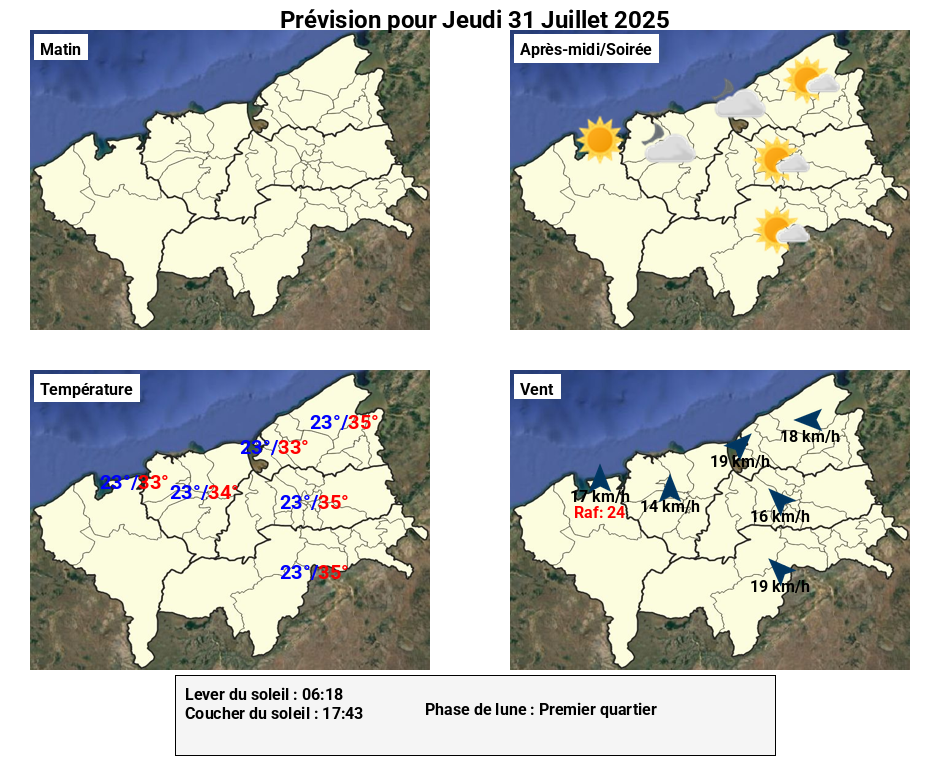
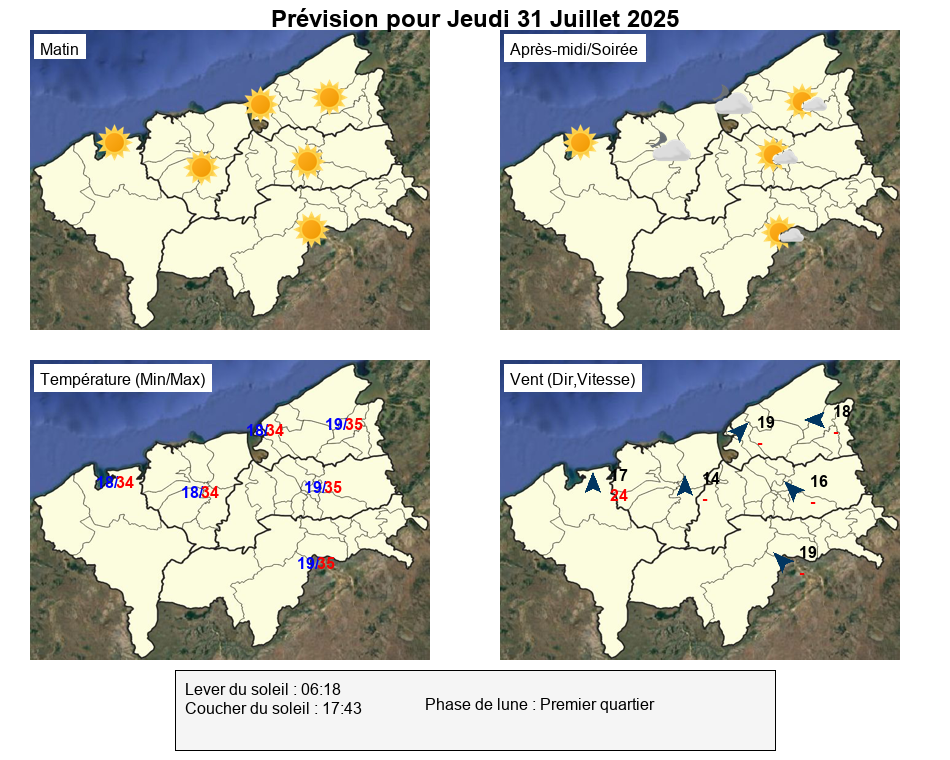
Update forecast on 31/07/2025

diff --git a/assets/js/script.js b/assets/js/script.js
@@ -133,7 +133,7 @@ BULLETIN DE PRÉVISION POUR LA MARINE DESTINE A LA NAVIGATION HAUTE MER (DE 10°
     const templates = [
     `Temps majoritairement ensoleillé l'après-midi sur la région, avec un ciel particulièrement dégagé sur Soalala.
 **Vents** : Vents faibles à modérés, de secteur Est-Sud-Est sur l'Est et l'intérieur des terres et de secteur Sud à l'Ouest (14 à 19 km/h), avec des rafales possibles jusqu'à 24 km/h à Soalala.
-**Températures minimales** : 23 °C
+**Températures minimales** : entre 18 et 19 °C
 **Températures maximales** : entre 33 et 35 °C`,
     `Temps ensoleillé sur l'ensemble de la région le matin, devenant légèrement nuageux l'après-midi sur l'Ouest (Soalala et Mitsinjo).
 **Vents** : Vents faibles à modérés de secteur Sud-Est (10 à 17 km/h), avec des rafales jusqu'à 25 km/h à Soalala.
